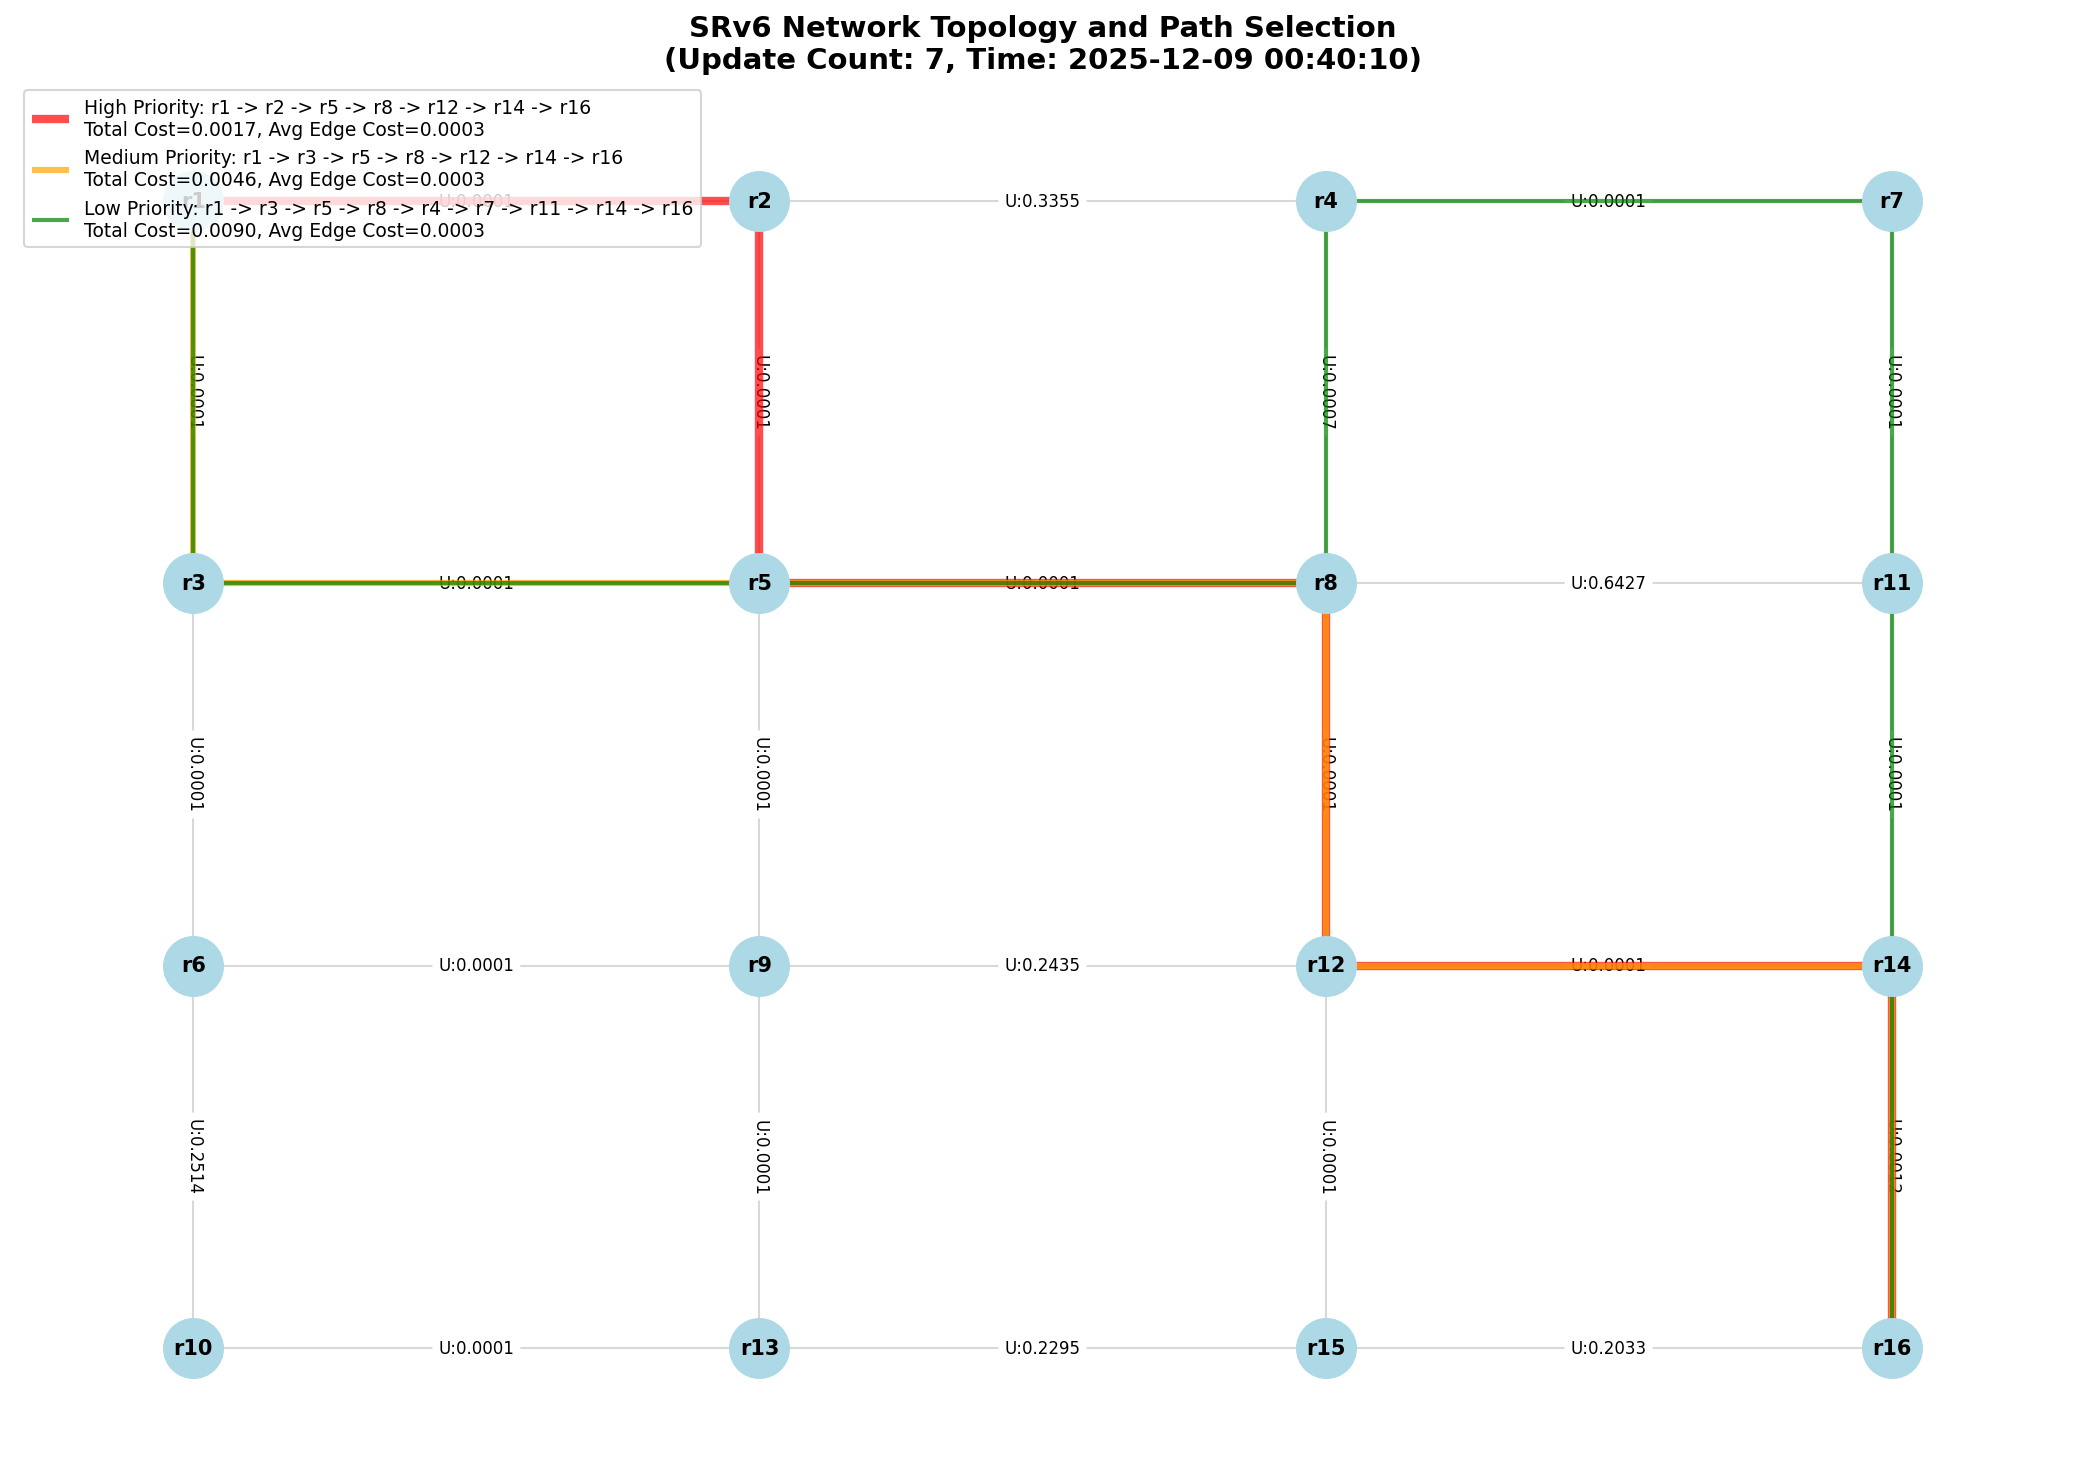
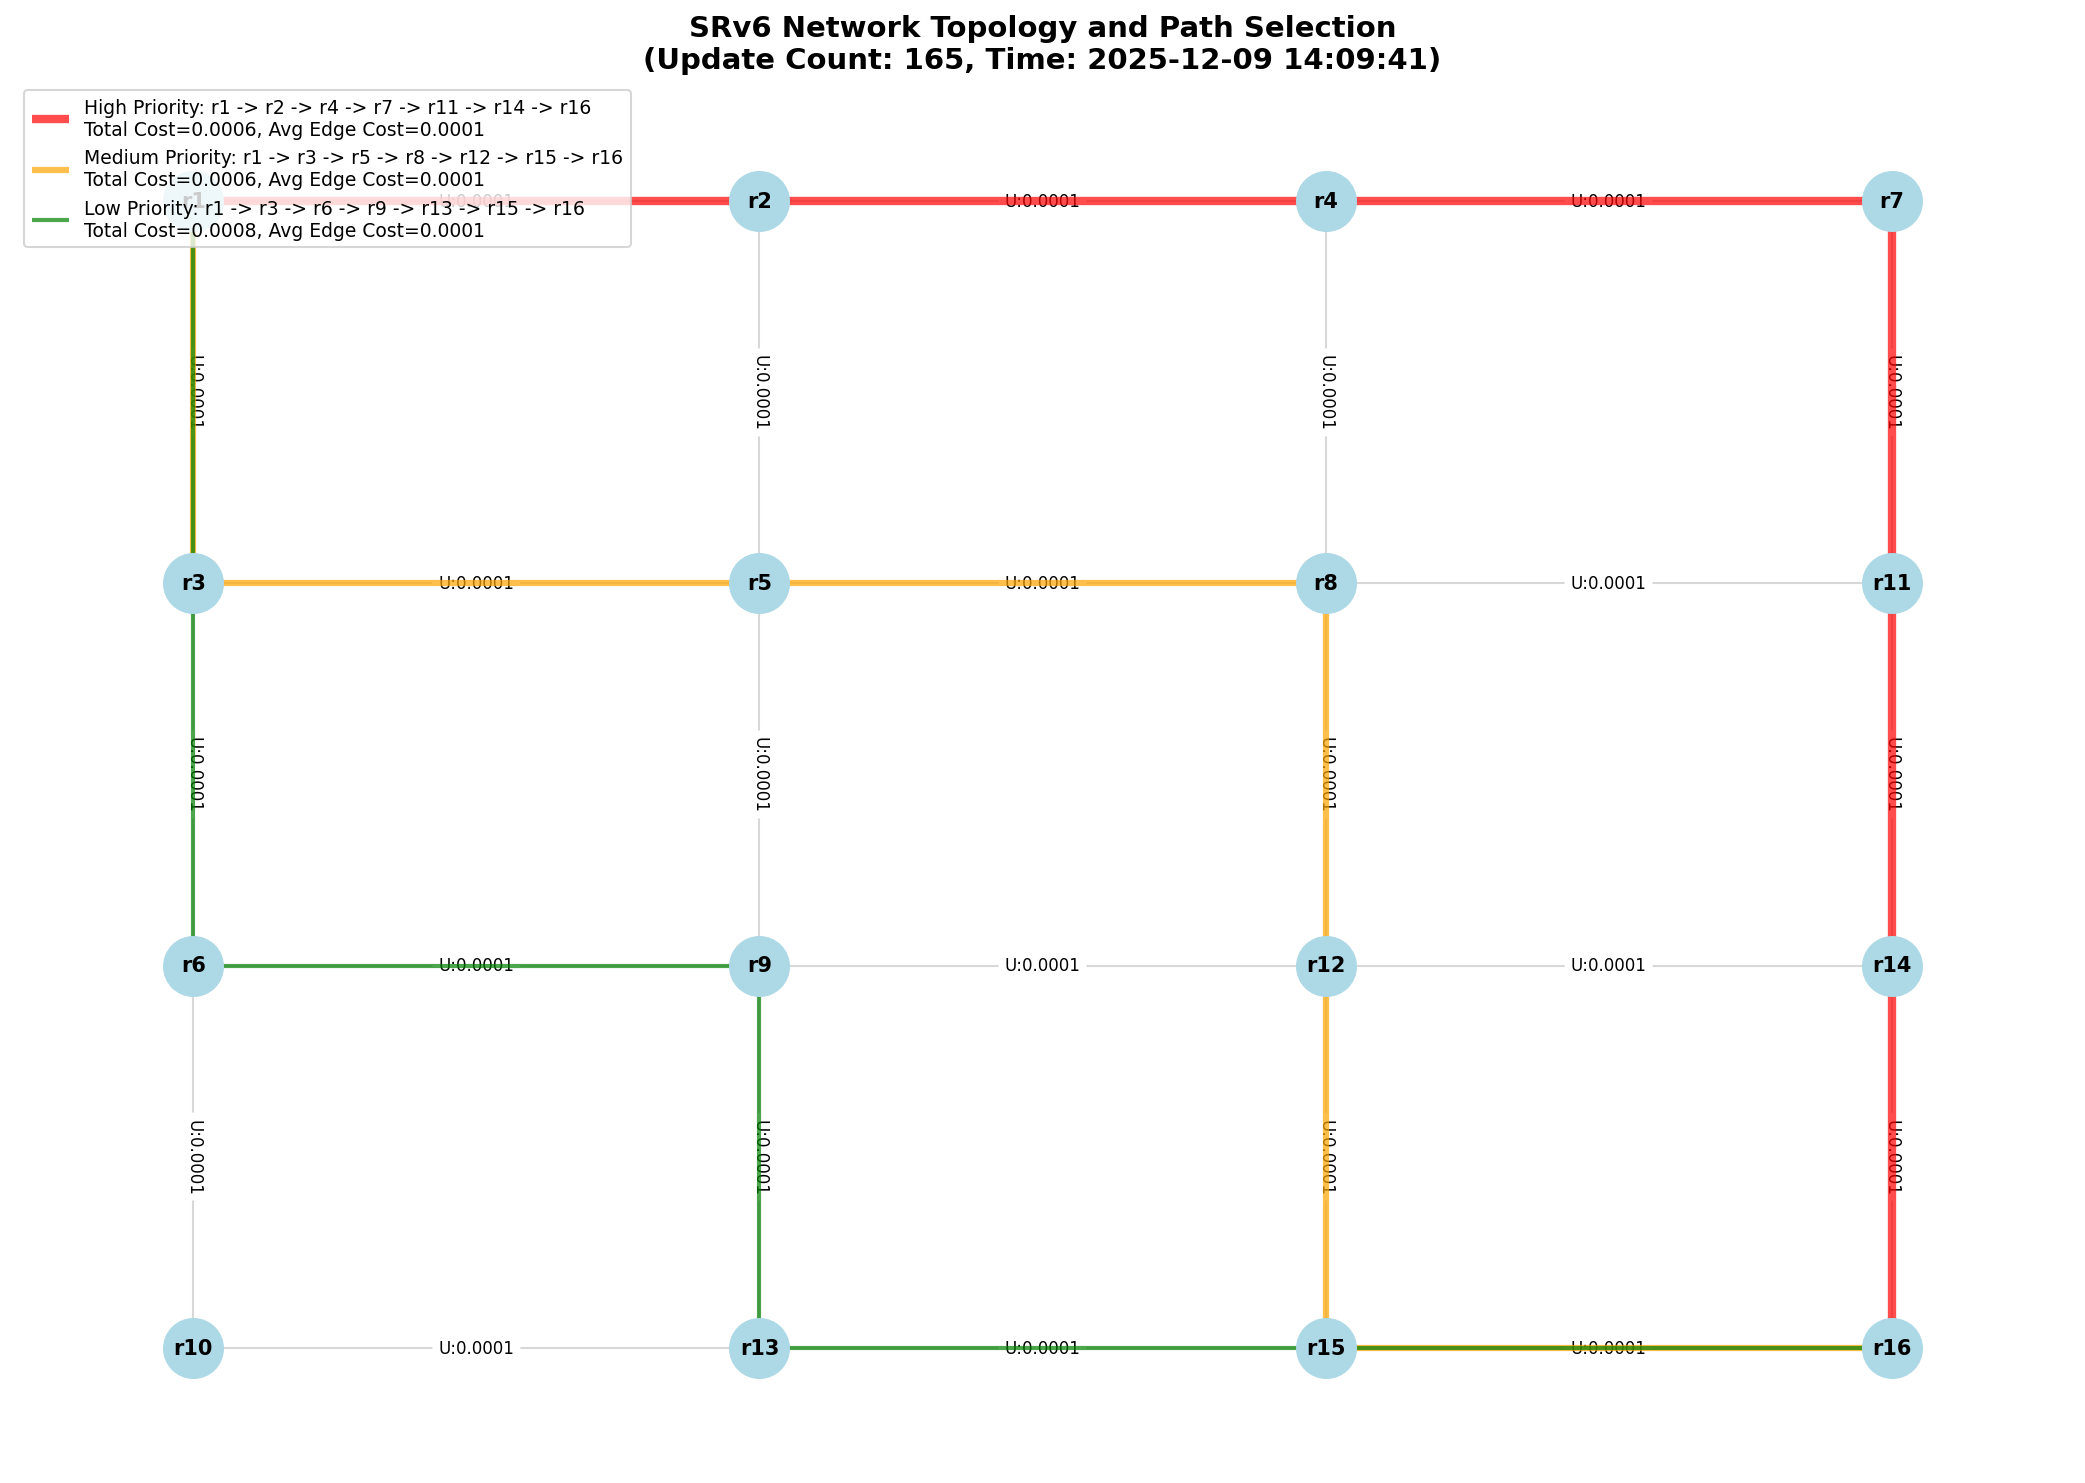
latest

diff --git a/controller/srv6-path-orchestrator/phase3_realtime_multi_table.py b/controller/srv6-path-orchestrator/phase3_realtime_multi_table.py
@@ -162,12 +162,14 @@ class RRDDataManager:
                 return None
             
             # 最新の有効データを検索
+            # RRDファイルには ds0(in) と ds1(out) の2つのデータソースがある
+            # 出力トラフィック（ds1 = out）を使用帯域として使用
             data_lines = lines[2:]
             for line in reversed(data_lines):
                 if ':' in line:
                     parts = line.split()
-                    if len(parts) >= 2:
-                        val_str = parts[1]
+                    if len(parts) >= 3:  # timestamp, ds0, ds1
+                        val_str = parts[2]  # ds1 = out（出力トラフィック）
                         if val_str.lower() not in ['-nan', 'nan']:
                             try:
                                 val = float(val_str)
@@ -206,9 +208,17 @@ class RRDDataManager:
                     # 最小重み値を保証（0の場合でも0.0001以上）
                     graph[u][v]['weight'] = max(utilization, min_weight)
                     
-                    # 表示用単位変換
-                    display_val = round(out_bytes_per_sec * 8 / 1_000_000, 2) if out_bytes_per_sec >= 1000 else round(out_bytes_per_sec, 3)
-                    unit = "Mbps" if out_bytes_per_sec >= 1000 else "bps"
+                    # 表示用単位変換（バイト/秒 → bps → Mbps）
+                    bps = out_bytes_per_sec * 8  # バイト/秒 → ビット/秒
+                    if bps >= 1_000_000:
+                        display_val = round(bps / 1_000_000, 2)
+                        unit = "Mbps"
+                    elif bps >= 1_000:
+                        display_val = round(bps / 1_000, 2)
+                        unit = "Kbps"
+                    else:
+                        display_val = round(bps, 2)
+                        unit = "bps"
                     
                     logger.info(f"Edge r{u} <-> r{v}: {display_val} {unit} (利用率: {utilization:.4f})")
                     update_count += 1
@@ -384,32 +394,33 @@ class PathCalculator:
         """ネットワークトポロジ作成（最大帯域幅: 0.5Gbps = 62,500,000 Bytes/s）"""
         self.graph.add_nodes_from(range(1, 17))  # r1-r16
         # 全リンクの最大帯域幅: 0.5Gbps = 500,000,000 bps = 62,500,000 Bytes/s
-        max_bandwidth = 62_500_000  # Bytes/s (tcコマンドで0.5Gbpsに制限)
+        max_bandwidth_05G = 62_500_000  # Bytes/s (tcコマンドで0.5Gbpsに制限)
+        max_bandwidth_1G = 125_000_000  # Bytes/s (tcコマンドで1Gbpsに制限)
         edges = [
-            (1, 2, {'weight': 0.0001, 'max_bandwidth': max_bandwidth}),
-            (1, 3, {'weight': 0.0001, 'max_bandwidth': max_bandwidth}),
-            (2, 4, {'weight': 0.0001, 'max_bandwidth': max_bandwidth}),
-            (2, 5, {'weight': 0.0001, 'max_bandwidth': max_bandwidth}),
-            (3, 5, {'weight': 0.0001, 'max_bandwidth': max_bandwidth}),
-            (3, 6, {'weight': 0.0001, 'max_bandwidth': max_bandwidth}),
-            (4, 7, {'weight': 0.0001, 'max_bandwidth': max_bandwidth}),
-            (4, 8, {'weight': 0.0001, 'max_bandwidth': max_bandwidth}),
-            (5, 8, {'weight': 0.0001, 'max_bandwidth': max_bandwidth}),
-            (5, 9, {'weight': 0.0001, 'max_bandwidth': max_bandwidth}),
-            (6, 9, {'weight': 0.0001, 'max_bandwidth': max_bandwidth}),
-            (6, 10, {'weight': 0.0001, 'max_bandwidth': max_bandwidth}),
-            (7, 11, {'weight': 0.0001, 'max_bandwidth': max_bandwidth}),
-            (8, 11, {'weight': 0.0001, 'max_bandwidth': max_bandwidth}),
-            (8, 12, {'weight': 0.0001, 'max_bandwidth': max_bandwidth}),
-            (9, 12, {'weight': 0.0001, 'max_bandwidth': max_bandwidth}),
-            (9, 13, {'weight': 0.0001, 'max_bandwidth': max_bandwidth}),
-            (10, 13, {'weight': 0.0001, 'max_bandwidth': max_bandwidth}),
-            (11, 14, {'weight': 0.0001, 'max_bandwidth': max_bandwidth}),
-            (12, 14, {'weight': 0.0001, 'max_bandwidth': max_bandwidth}),
-            (12, 15, {'weight': 0.0001, 'max_bandwidth': max_bandwidth}),
-            (13, 15, {'weight': 0.0001, 'max_bandwidth': max_bandwidth}),
-            (14, 16, {'weight': 0.0001, 'max_bandwidth': max_bandwidth}),
-            (15, 16, {'weight': 0.0001, 'max_bandwidth': max_bandwidth}),
+            (1, 2, {'weight': 0.0001, 'max_bandwidth': max_bandwidth_1G}),
+            (1, 3, {'weight': 0.0001, 'max_bandwidth': max_bandwidth_1G}),
+            (2, 4, {'weight': 0.0001, 'max_bandwidth': max_bandwidth_1G}),
+            (2, 5, {'weight': 0.0001, 'max_bandwidth': max_bandwidth_1G}),
+            (3, 5, {'weight': 0.0001, 'max_bandwidth': max_bandwidth_1G}),
+            (3, 6, {'weight': 0.0001, 'max_bandwidth': max_bandwidth_1G}),
+            (4, 7, {'weight': 0.0001, 'max_bandwidth': max_bandwidth_05G}),
+            (4, 8, {'weight': 0.0001, 'max_bandwidth': max_bandwidth_05G}),
+            (5, 8, {'weight': 0.0001, 'max_bandwidth': max_bandwidth_05G}),
+            (5, 9, {'weight': 0.0001, 'max_bandwidth': max_bandwidth_05G}),
+            (6, 9, {'weight': 0.0001, 'max_bandwidth': max_bandwidth_05G}),
+            (6, 10, {'weight': 0.0001, 'max_bandwidth': max_bandwidth_05G}),
+            (7, 11, {'weight': 0.0001, 'max_bandwidth': max_bandwidth_05G}),
+            (8, 11, {'weight': 0.0001, 'max_bandwidth': max_bandwidth_05G}),
+            (8, 12, {'weight': 0.0001, 'max_bandwidth': max_bandwidth_05G}),
+            (9, 12, {'weight': 0.0001, 'max_bandwidth': max_bandwidth_05G}),
+            (9, 13, {'weight': 0.0001, 'max_bandwidth': max_bandwidth_05G}),
+            (10, 13, {'weight': 0.0001, 'max_bandwidth': max_bandwidth_05G}),
+            (11, 14, {'weight': 0.0001, 'max_bandwidth': max_bandwidth_1G}),
+            (12, 14, {'weight': 0.0001, 'max_bandwidth': max_bandwidth_1G}),
+            (12, 15, {'weight': 0.0001, 'max_bandwidth': max_bandwidth_1G}),
+            (13, 15, {'weight': 0.0001, 'max_bandwidth': max_bandwidth_1G}),
+            (14, 16, {'weight': 0.0001, 'max_bandwidth': max_bandwidth_1G}),
+            (15, 16, {'weight': 0.0001, 'max_bandwidth': max_bandwidth_1G}),
         ]
         self.graph.add_edges_from(edges)
     
